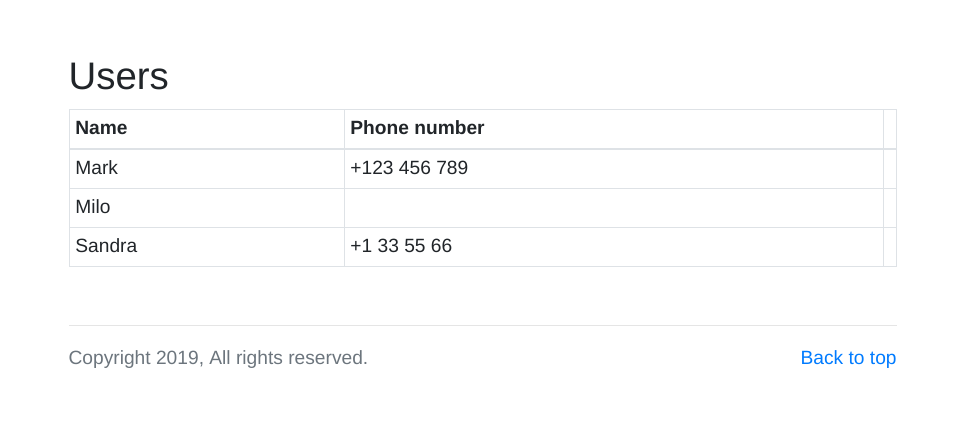
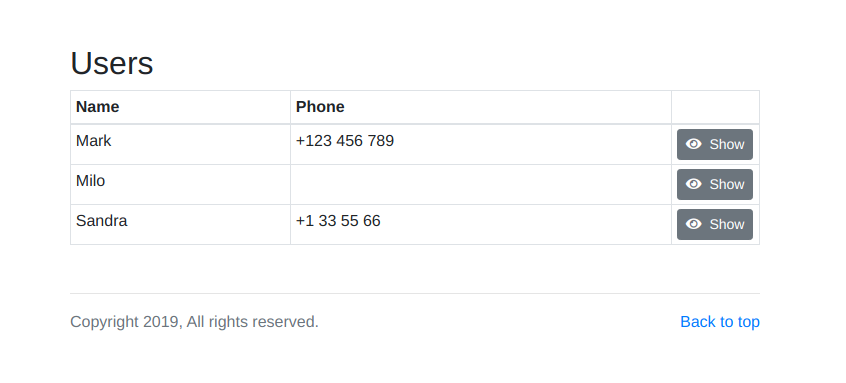
Prepared release docs

diff --git a/testers/advanced_example.js b/testers/advanced_example.js
@@ -1,0 +1,145 @@
+'use strict';
+
+const http = require('http');
+const express = require('express');
+
+const port = process.env.PORT || 3000;
+
+const { crudUI, CUIField, FIELD_TYPES, CUI_MODES } = require('../');
+
+const app = express();
+
+const data = [
+	{ id: 1, name: 'Axe' },
+	{ id: 2, name: 'Barry', description: 'This\nIs\nBarry!' },
+	{ id: 3, name: 'Cindy', gender: 'female' },
+];
+
+app.use(
+	'/admin/users',
+	crudUI({
+		name: 'user',
+		mode: CUI_MODES.simple_list,
+		recordId: 'id',
+		navigation: {
+			brand: {
+				title: 'Tester',
+				url: '/admin/users',
+			},
+			left: [
+				{
+					title: 'Users',
+					url: '/admin/users',
+				},
+				{
+					title: 'Projects',
+					url: '/admin/projects',
+				},
+			],
+			right: [
+				{
+					title: 'User',
+					items: [
+						{
+							title: 'Home',
+							url: '/admin/users',
+						},
+						{
+							title: '---',
+						},
+						{
+							render: (/** CUIContext */ ctx) => {
+								return `<button class="dropdown-item" onclick="alert('logout')">Log out</button>`;
+							},
+						},
+					],
+				},
+			],
+		},
+		fields: [
+			new CUIField({
+				type: FIELD_TYPES.string,
+				name: 'id',
+				label: 'ID',
+				noEdit: true,
+			}),
+			new CUIField({
+				type: FIELD_TYPES.string,
+				name: 'name',
+				label: 'Name',
+				helpText: "Person's full name and surname",
+				validate: {
+					presence: {
+						allowEmpty: false,
+					},
+				},
+				validateEdit: {
+					length: { minimum: 20 },
+				},
+			}),
+			new CUIField({
+				type: FIELD_TYPES.text,
+				name: 'description',
+				label: 'Description',
+				validateCreate: (ctx, val) => {
+					if (val.indexOf('cheese') < 0) {
+						return 'must contain word cheese';
+					}
+				},
+			}),
+			new CUIField({
+				type: FIELD_TYPES.select,
+				name: 'gender',
+				label: 'Gender',
+				values: ['male', 'female', 'other'],
+				nullOption: true,
+			}),
+		],
+		actions: {
+			getList: ctx => {
+				return data;
+			},
+			getSingle: (ctx, id) => {
+				return data.find(item => String(item.id) === String(id));
+			},
+			create: (ctx, payload) => {
+				const id = data.reduce((max, item) => Math.max(item.id, max), 0) + 1;
+				const item = { ...payload, id };
+				data.push(item);
+				return item;
+			},
+			update: (ctx, id, payload) => {
+				const existing = data.find(item => String(item.id) === String(id));
+				if (!existing) {
+					throw new Error(`Not found: ${id}`);
+				}
+				Object.assign(existing, payload);
+				return existing;
+			},
+			delete: (ctx, id) => {
+				const index = data.findIndex(item => String(item.id) === String(id));
+				if (index < 0) {
+					throw new Error(`Not found: ${id}`);
+				}
+				const item = data.splice(index, 1)[0];
+				return item;
+			},
+		},
+	})
+);
+
+app.get('/', (req, res) => {
+	return res.set('content-type', 'text/html').send(`
+  <body>
+    <h1>This is just a tester</h1>
+    <h4>
+      <a href="/admin/users">Go to admin</a>
+    </h4>
+  </body>
+  `);
+});
+
+const server = http.createServer(app);
+server.listen(port, () => {
+	console.log(`Listening on http://localhost:${port}`);
+});

diff --git a/testers/kitchen_sink.js b/testers/kitchen_sink.js
@@ -7,7 +7,7 @@ const bodyParser = require('body-parser');
 
 const port = process.env.PORT || 3000;
 
-const { crudUI, CUIField, FIELD_TYPES, MODES, CUITexts, CUIIcons, ICON_NAMES } = require('../../');
+const { crudUI, CUIField, FIELD_TYPES, MODES, CUITexts, CUIIcons, ICON_NAMES } = require('../');
 
 const app = express();
 app.use(bodyParser.json());

diff --git a/testers/minimal_example.js b/testers/minimal_example.js
@@ -3,7 +3,7 @@
 const http = require('http');
 const express = require('express');
 
-const crudUI = require('../../');
+const crudUI = require('../');
 
 const app = express();
 

diff --git a/README.md b/README.md
@@ -46,13 +46,13 @@ app.use(
 http.createServer(app).listen(3000);
 ```
 
-![Simple example](misc/cui_1.png)
+![Minimal example](misc/cui_1.png)
 
 ### More details
 
 The UI is rendered server-side using a vanilla [bootstrap](https://getbootstrap.com/) layout (feel free to slap your own [theme](https://bootswatch.com/) on top of it). Validation is performed by [validate.js](https://validatejs.org/), but you can plug in your own library. Every part of the UI in general is overridable through options.
 
-Each crudUI serves a single REST-like resource - a table view with items, edit item and delete. You can use multiple crudUI handlers to work with multiple resources. We provide an option of adding a top level menu, so you can navigate between them (and/or other parts of your app).
+By default, each crudUI router serves a single REST-like resource - a table view, with links to each item's detail page, edit page and delete popup (there are other view modes too, eg. the *single record mode*). You can use multiple crudUI handlers to work with multiple resources. We provide an option of adding a top level menu, so you can navigate between them (and/or other parts of your app).
 
 As the name says, this library is for the UI layer only. Since you are providing functions which resolve various operations, you can plug whatever database or other backend you want. We also don't do authentication. It is recommended to plug in your own auth middleware before the crudUI handler is reached.
 
@@ -68,11 +68,11 @@ To summarize:
 
 - You have relatively little data to manage (we don't support pagination yet).
 
-- You like self-contained low-impact libraries. We have very few direct dependencies, plus 2 peer dependencies (against `express.js` and `body-parser`).
+- You like self-contained low-impact libraries. We have very few direct dependencies, on top of 2 required peer dependencies (`express.js` and `body-parser`).
 
 ##### This library is NOT for you if:
 
-- You want a fully managed CMS solution with minimal coding (instead, see [strapi](https://strapi.io/) , for example).
+- You want a fully managed CMS solution with minimal coding.
 
 - You want to serve an interface towards customers. Our UI is functional, but simple and generic looking. While you can overwrite every view with your own code, if you start doing that all the time, maybe it's time to put up a real UI :-)
 
@@ -88,7 +88,7 @@ const express = require('express');
 
 const port = process.env.PORT || 3000;
 
-const { crudUI, CUIField, FIELD_TYPES } = require('crud-ui');
+const { crudUI, CUIField, FIELD_TYPES, CUI_MODES } = require('crud-ui');
 
 const app = express();
 
@@ -102,6 +102,7 @@ app.use(
   '/admin/users',
   crudUI({
     name: 'user',
+    mode: CUI_MODES.simple_list,
     recordId: 'id',
     navigation: {
       brand: {
@@ -233,15 +234,15 @@ server.listen(port, () => {
 
 ![Advanced example 3](misc/cui_4.png)
 
+For an even bigger example, look into the [kitchen_sink tester app](testers/kitchen_sink.js).
+
 ### Development
 
 Follow the development and TODO-s here: <https://trello.com/b/3vSgeUxa/crudui>
 
 Release log can be found [here](docs/releases.md).
 
-#### NOTE
-
-**This project is in very early stages of development. Lots of things are still missing. Nothing is battle tested in production. At this stage, we don't recommend using it for mission critical systems.**
+**NOTE:** I use this project in production for one micro CMS, and it's working fine. Still, given its lack of unit tests and relative immaturity, *use at your own risk*.
 
 ### License
 

diff --git a/docs/releases.md b/docs/releases.md
@@ -2,6 +2,16 @@
 
 # Release log
 
+##### 0.3.0
+###### *(2019/10/17)*
+
+- Added *detail view*. This page displays single record on screen.
+- Added support for `CUI_MODES`. `simple_table` is the only mode we had in 0.2. `detail_table` is the table view with newly added detail page links. `single_record` is a whole new mode that is suitable if you only have singular record to edit (eg. options). 
+- Fixed problem with display of boolean fields
+- Refactored the way middlewares are loaded and get their options
+- CUI routers now share cookies. CrudUI should now generate only 2-3 cookies regardless of deployment size.
+- Numerous bug fixes and internal refactorings. Changes in views might break existing customizations!
+
 ##### 0.2.0
 ###### *(2019/09/16)*
 
